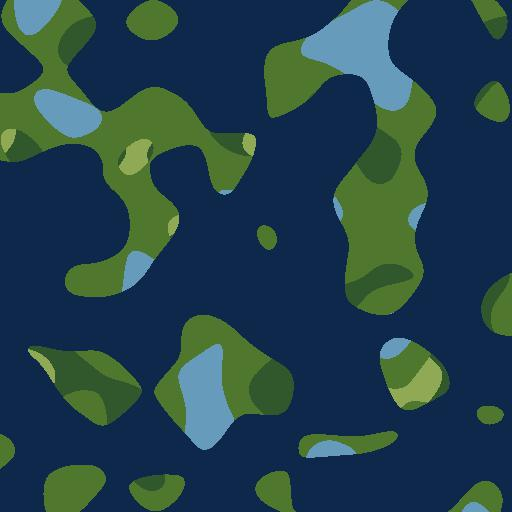
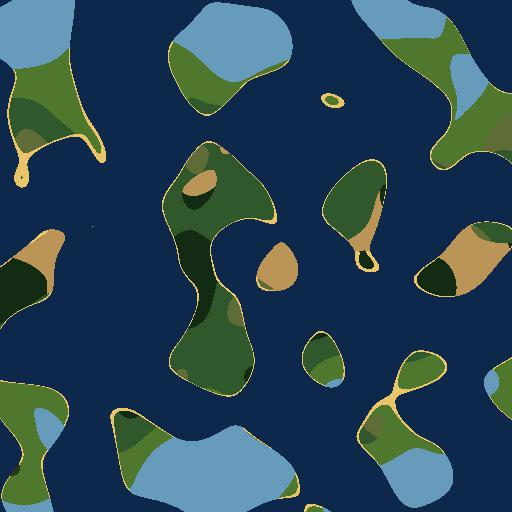
added beach, fixed equator temp

diff --git a/main.py b/main.py
@@ -15,13 +15,19 @@ precipitation_noise = PerlinNoise(octaves=6)
 update_range = lambda val, old_min, old_max, new_min, new_max: (((val - old_min) * (new_max - new_min)) / (old_max - old_min)) + new_min
 
 # get closeness to equator
-def equator_temp(y: int, temperature: float) -> float:
+def equator_temp(x: int) -> float:
     """needs to consider negative temps"""
-    equator = size_y/2
-    percent = (y % equator) / equator
-    category = percent / 10
-    bonus = category * 1.5
-    return -5 + bonus
+    equator = size_x / 2
+    percent = x / equator if x < equator else (size_x - x)/equator
+    category = percent * 10
+    bonus = category * 3
+    return -15 + bonus
+
+def add_beach(biome: str, height: float) -> str:
+    if 'forest' in biome and height < 150:
+        return 'beach'
+    
+    return biome
 
 def get_biome(is_land: bool, temperature: float, precipitation: float) -> str:
     # https://upload.wikimedia.org/wikipedia/commons/6/68/Climate_influence_on_terrestrial_biome.svg
@@ -63,10 +69,11 @@ biome_color = {
     'boreal forest': '4f772d',
     'grassland': '90a955',
     'temperate rainforest': '31572c',
-    'seasonal forest': '90a955',
-    'woodland': '90a955',
+    'seasonal forest': '606c38',
+    'woodland': '283618',
     'tropical rainforest': '132a13',
-    'savanna': 'bb9457'
+    'savanna': 'bb9457',
+    'beach': 'e9c46a'
 }
 
 def init_df() -> pd.DataFrame:
@@ -101,19 +108,23 @@ def init_df() -> pd.DataFrame:
     df['precipitation'] = df.apply(lambda row: update_range(row['precipitation'], -0.7, 0.7, 0, 500), axis=1)
     df['temperature'] = df.apply(lambda row: update_range(row['temperature'], -0.7, 0.7, -10, 30), axis=1)
     
-    print('temperature tweaks')
+    print('checking the temperature')
     # update temperature based on latitude
-    df['temperature'] = df.apply(lambda row: row['temperature'] + equator_temp(row['y'], row['temperature']), axis=1)
+    df['temperature'] = df.apply(lambda row: row['temperature'] + equator_temp(row['x']), axis=1)
     # update temperature based on height
     df['temperature'] = df.apply(lambda row: row['temperature'] - row['height']/2000, axis=1)
 
     # set is_land
-    print('setting is_land')
+    print('finding land')
     df['is_land'] = df.apply(lambda row: row['height'] > 0, axis=1)
 
     # set biome
     print('setting biome')
     df["biome"] = df.apply(lambda row: get_biome(row['is_land'], row['temperature'], row['precipitation']), axis=1)
+
+    # add beaches
+    print('going to the beach')
+    df['biome'] = df.apply(lambda row: add_beach(row['biome'], row['height']), axis=1)
 
     # set color
     print('setting color')
